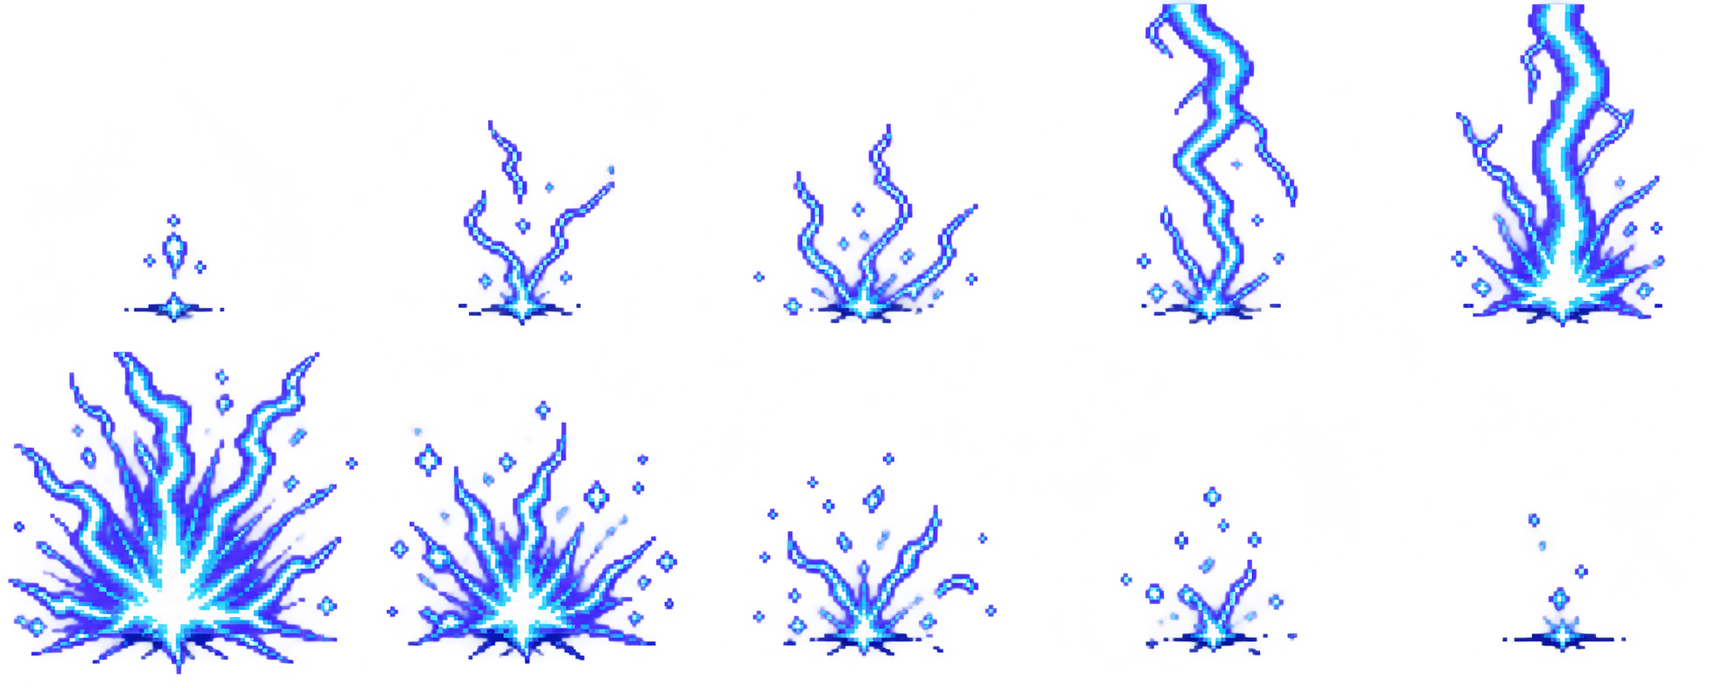
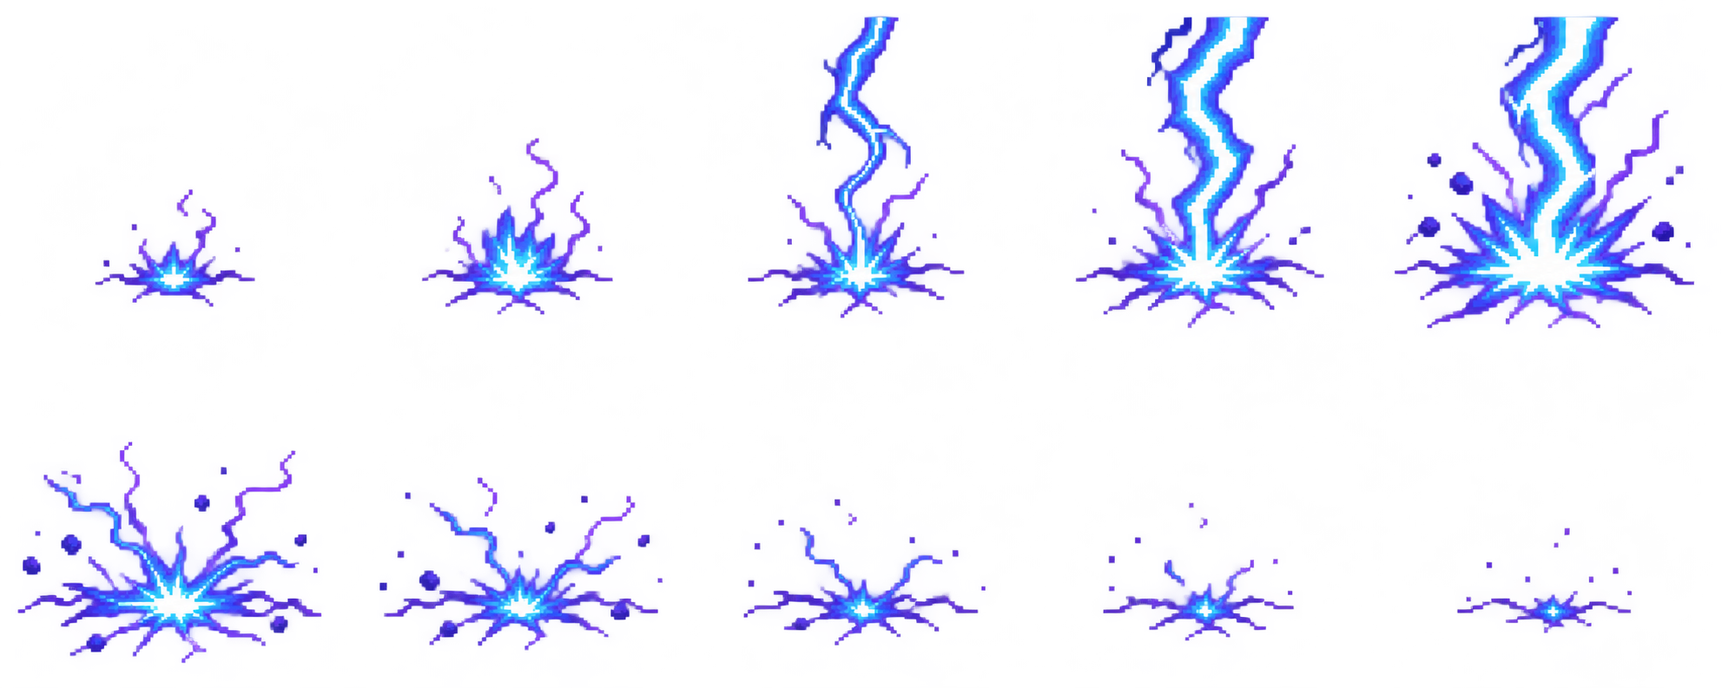
feat(asset-canvas): refine detailed effect assets

diff --git a/src/shared/canvas-pixel-style.ts b/src/shared/canvas-pixel-style.ts
@@ -4,6 +4,10 @@ Create authentic low-resolution 2D game pixel art, designed natively on the sele
 
 Use uniformly sized square pixels, deliberate pixel clusters, stepped contours, readable silhouettes, and crisp hard-edged shading. The selected density controls logical dimensions, palette, shading depth, and retained detail. Do not apply a different density's rules.
 
+**DENSITY PRIORITY**
+
+When the selected density is DETAILED PIXELS, target premium 32-bit pixel-art illustration fidelity, not coarse or classic pixel art enlarged to a larger canvas. Use dense, visibly small square-pixel clusters and retain controlled micro-structure, material transitions, secondary motion detail, directional key light, rim light, contact shadows, and compact specular highlights at the requested logical size. Build believable material volume through hard-edged pixel clusters: reflective facet highlights and occlusion seams for metal or ice, layered translucent bands and surface reflections for water, and a bright emissive core with nested stepped falloff bands for magic or fire. Add selective texture clusters only where they describe a material, light direction, or form change; do not use empty random noise. Never reuse coarse or classic block sizes for detailed output; do not reduce a detailed effect to a single broad silhouette with a few oversized particles.
+
 **REFERENCE DESIGN, NOT REFERENCE RENDERING**
 
 Use references to identify the requested subject, silhouette, proportions, major structures, primary colors, and identity-defining features. Preserve pose, camera angle, or composition only where the task explicitly requires them. With no reference, follow the user's subject description.
@@ -22,6 +26,7 @@ type PixelArtAssetType =
   | "environment"
   | "terrain"
   | "object"
+  | "effect"
   | "animation"
   | "subject";
 type PixelArtGrid = {
@@ -69,8 +74,17 @@ const SUBJECT_DETAILS: Record<PixelArtLevel, string> = {
     "Retain selected secondary structures, markings, seams, or highlights as readable clusters; omit only detail too small for this grid. For faces, if present, retain selected hair or fur locks and compact eye highlights.",
 };
 
+const EFFECT_DETAILS: Record<PixelArtLevel, string> = {
+  coarse:
+    "Keep the effect to bold, readable energy masses with only essential sparks or fragments. Prioritize the motion silhouette over interior texture.",
+  classic:
+    "Use compact clusters for the core, outer edge, and a few motion-defining particles. Keep trails, arcs, droplets, and fragments readable without adding fine texture.",
+  detailed:
+    "Use a 256×256 logical canvas for every effect frame, with premium 32-bit pixel-art illustration fidelity. Build the core, glow edge, material transitions, secondary particles, and believable three-dimensional volume from dense small square-pixel clusters. Use 6–8 discrete hard-edged tones across the effect palette, reserving the brightest one for compact specular or emissive focal highlights. Render a deliberate light hierarchy: hot or bright core, lit plane, saturated midtone body, dark occlusion rim, thin rim light, then sparse reflected fragments. Ice should show planar facets, internal refraction bands, and cold reflective glints; water should show layered translucent bands, refracted depth, and sharp surface reflections; fire and magic should show nested emissive cores with stepped radiating falloff. Retain thin but readable arcs, tendrils, droplets, sparks, shards, and smoke wisps where they clarify motion. Add selective texture clusters only where they describe material, lighting, or volume, never as random speckling.",
+};
+
 const ASSET_DETAILS: Record<
-  Exclude<PixelArtAssetType, "subject" | "animation">,
+  Exclude<PixelArtAssetType, "subject" | "effect" | "animation">,
   Record<PixelArtLevel, string>
 > = {
   character: {
@@ -126,7 +140,13 @@ export function withPixelArtLevel(
   },
 ): string {
   const settings = PIXEL_ART_LEVEL_SETTINGS[level];
-  const size = settings[kind];
+  const assetTypes =
+    typeof options?.assetType === "string"
+      ? [options.assetType]
+      : (options?.assetType ?? []);
+  const size = kind === "sprite" && level === "detailed" && assetTypes.includes("effect")
+    ? 256
+    : settings[kind];
   const grid = options?.grid;
   const dimensions = options?.referenceSheet
     ? `Design the entire 16:9 reference sheet on a ${size * 4}×${(size * 9) / 4} logical pixel canvas. Full-body views each fit within a ${size}×${size} logical sprite budget; the main portrait can occupy more logical area, using the same pixel scale and detail budget.`
@@ -137,15 +157,13 @@ export function withPixelArtLevel(
     kind === "tile"
       ? "An explicit user tile size or atlas layout overrides these defaults. Recalculate the complete logical atlas from that tile size and layout; do not enforce the default dimensions at the same time."
       : "";
-  const assetTypes =
-    typeof options?.assetType === "string"
-      ? [options.assetType]
-      : (options?.assetType ?? []);
   const assetDetail = assetTypes
     .map((type) => {
       const detail =
         type === "subject"
           ? SUBJECT_DETAILS[level]
+          : type === "effect"
+            ? EFFECT_DETAILS[level]
           : type === "animation"
             ? `${SUBJECT_DETAILS[level]} Apply the same detail choices to the supplied subject in every frame, whether it is a person, creature, or object. Spend the budget on readable motion, not changing texture or ornament.`
             : ASSET_DETAILS[type][level];
@@ -158,7 +176,10 @@ export function withPixelArtLevel(
       : level === "detailed"
         ? "DETAILED PIXELS"
         : "CLASSIC PIXELS";
-  const instruction = `**PIXEL DENSITY: ${title}**\n\n${dimensions}${sizeOverride ? ` ${sizeOverride}` : ""}\n\n${settings.style} Pixel construction takes priority over detail reduction: keep visible square-pixel clusters and stair-step contours on outer silhouettes, diagonals, curves, and internal color boundaries at this density. Simplified shapes must still be built from pixels; do not turn them into smooth flat vector shapes. Fine detail must also remain visibly pixel-built. Use no more than ${settings.colors} colors across all artwork in the full output, plus one plain background color or transparency. Reuse the palette across every view and frame.\n\nLogical dimensions are design targets, not provider output dimensions. Enlarge the complete composition using one uniform nearest-neighbor scale. Derive visible block size from the complete logical canvas and actual output size, never from a fixed output-width example. Preserve square pixels; if the output aspect ratio differs, leave plain margins rather than stretching pixels or adding detail.${assetDetail ? `\n\n${assetDetail}` : ""}`;
+  const globalStyle = prompt.includes(GLOBAL_PIXEL_ART_STYLE_REQUIREMENTS)
+    ? ""
+    : `${GLOBAL_PIXEL_ART_STYLE_REQUIREMENTS}\n\n`;
+  const instruction = `${globalStyle}**PIXEL DENSITY: ${title}**\n\n${dimensions}${sizeOverride ? ` ${sizeOverride}` : ""}\n\n${settings.style} Pixel construction takes priority over detail reduction: keep visible square-pixel clusters and stair-step contours on outer silhouettes, diagonals, curves, and internal color boundaries at this density. Simplified shapes must still be built from pixels; do not turn them into smooth flat vector shapes. Fine detail must also remain visibly pixel-built. Use no more than ${settings.colors} colors across all artwork in the full output, plus one plain background color or transparency. Reuse the palette across every view and frame.\n\nLogical dimensions are design targets, not provider output dimensions. Enlarge the complete composition using one uniform nearest-neighbor scale. Derive visible block size from the complete logical canvas and actual output size, never from a fixed output-width example. Preserve square pixels; if the output aspect ratio differs, leave plain margins rather than stretching pixels or adding detail.${assetDetail ? `\n\n${assetDetail}` : ""}`;
   const firstSection = prompt.indexOf("\n\n");
   return firstSection < 0
     ? `${instruction}\n\n${prompt}`

diff --git a/src/renderer/asset-canvas-effect-presets.ts b/src/renderer/asset-canvas-effect-presets.ts
@@ -4,15 +4,15 @@ import type { ImageAspectRatio } from "../shared/contracts.js";
 import { effectPresetExampleId } from "./asset-canvas-effect-examples.js";
 
 export const EFFECT_PRESETS = [
-  { id: "fire-hit", name: "火焰", frames: "4 × 3 · 12 帧", grid: { columns: 4, rows: 3 }, description: "火焰爆发并化为余烬的 12 帧特效图集。", prompt: "Create one complete 4-column by 3-row sprite sheet for a compact pixel-art fire impact. Read cells left to right, top to bottom: ignition, expanding flame burst, scattered sparks, fading embers. Transparent background, no labels, no borders, fixed center." },
+  { id: "fire-hit", name: "火焰", frames: "4 × 3 · 12 帧", grid: { columns: 4, rows: 3 }, description: "火焰爆发并化为余烬的 12 帧特效图集。", prompt: "Create one complete 4-column by 3-row sprite sheet for a compact pixel-art fire impact. Read cells left to right, top to bottom: ignition, expanding flame burst, scattered sparks, fading embers. Use a compact white-hot core, separately articulated narrow yellow and gold inner flame tongues, orange mid-flames, a deep crimson outer rim, small charcoal ember pockets, and tiny square cinders. Preserve dense internal flame striations and stepped pixel contours; never use a smoky, muddy, broad flat red mass. Transparent background, no labels, no borders, fixed center." },
   { id: "ice-impact", name: "冰霜", frames: "4 × 3 · 12 帧", grid: { columns: 4, rows: 3 }, description: "冰晶爆发、碎片飞散并消退的 12 帧特效图集。", prompt: "Create one complete 4-column by 3-row sprite sheet for a blue ice impact. Read cells left to right, top to bottom: cyan spark, crystal formation, ice burst, shards scatter, frost fades. Transparent background, no labels, no borders, fixed center." },
   { id: "wave-impact", name: "浪花", frames: "4 × 3 · 12 帧", grid: { columns: 4, rows: 3 }, description: "海浪卷起、拍击并回落的 12 帧特效图集。", prompt: "Create one complete 4-column by 3-row sprite sheet for a powerful pixel-art ocean wave impact. Read cells left to right, top to bottom: wave forms, crest rises, wave crashes, foam and droplets scatter, then retreat. Transparent background, no labels, no borders, fixed center." },
   { id: "water-splash", name: "水花", frames: "4 × 3 · 12 帧", grid: { columns: 4, rows: 3 }, description: "水滴落下、溅起并形成涟漪的 12 帧特效图集。", prompt: "Create one complete 4-column by 3-row sprite sheet for a pixel-art water droplet splash. Read cells left to right, top to bottom: droplet falls, impact, expanding splash arcs, droplets fall, ripples fade. Transparent background, no labels, no borders, fixed ground point." },
   { id: "electric-orb-burst", name: "雷球", frames: "3 × 4 · 12 帧", grid: { columns: 3, rows: 4 }, description: "雷球蓄能、爆发并分解为电弧的 12 帧特效图集。", prompt: "Create one complete 3-column by 4-row sprite sheet for a spinning pixel-art electric orb that bursts into lightning fragments. Read cells left to right, top to bottom: sparks gather, orb charges, electric burst, fragments scatter, sparks fade. Transparent background, no labels, no borders, fixed center." },
   { id: "lightning-strike", name: "雷点", frames: "5 × 2 · 10 帧", grid: { columns: 5, rows: 2 }, description: "雷电下落、落点爆发并消散的 10 帧特效图集。", prompt: "Create one complete 5-column by 2-row sprite sheet for a pixel-art lightning strike impact. Read cells left to right, top to bottom: charge glow, bolt descends, impact branches, residual sparks fade. Transparent background, no labels, no borders, fixed impact point." },
   { id: "ice-claw-slash", name: "寒冰爪痕", frames: "4 × 3 · 12 帧", grid: { columns: 4, rows: 3 }, description: "三道寒冰爪痕斩击并碎裂的 12 帧特效图集。", prompt: "Create one complete 4-column by 3-row sprite sheet for a three-claw pixel-art ice slash. Read cells left to right, top to bottom: frost glint, parallel diagonal claw marks form, sharp slash peaks, shards scatter, frost fades. Transparent background, no labels, no borders, fixed center." },
-  { id: "electric-trail", name: "电光拖尾", frames: "4 × 3 · 12 帧", grid: { columns: 4, rows: 3 }, description: "电能冲刺形成拖尾并分解的 12 帧特效图集。", prompt: "Create one complete 4-column by 3-row sprite sheet for an electric dash with a glowing lightning trail. Read cells left to right, top to bottom: spark, charge core, bright horizontal dash trail, branching fragments, sparks fade. Transparent background, no labels, no borders, fixed center." },
-  { id: "blue-white-crescent-slash", name: "蓝白弧斩", frames: "4 × 3 · 12 帧", grid: { columns: 4, rows: 3 }, description: "蓝白能量弧沿曲线挥斩的 12 帧特效图集。", prompt: "Create one complete 4-column by 3-row sprite sheet for a blue-white crescent energy slash. Read cells left to right, top to bottom: small crescent forms, sweeps in a curved arc, reaches a bright peak, then breaks into particles. Transparent background, no labels, no borders, fixed center." },
+  { id: "electric-trail", name: "电光拖尾", frames: "4 × 3 · 12 帧", grid: { columns: 4, rows: 3 }, description: "电能冲刺形成拖尾并分解的 12 帧特效图集。", prompt: "Create one complete 4-column by 3-row sprite sheet for an electric dash with a glowing lightning trail. Read cells left to right, top to bottom: spark, charge core, bright horizontal dash trail, branching fragments, sparks fade. Use a hairline white-cyan lightning core, independently articulated thin blue-violet branches, dark navy gaps, stepped micro-pixel bends, cyan rim highlights, segmented afterimage trails, and tiny square charged dust. Keep the energy as precise filaments, never a chunky blob or a broad flat blue slab. Transparent background, no labels, no borders, fixed center." },
+  { id: "blue-white-crescent-slash", name: "蓝白弧斩", frames: "4 × 3 · 12 帧", grid: { columns: 4, rows: 3 }, description: "蓝白能量弧沿曲线挥斩的 12 帧特效图集。", prompt: "Create one complete 4-column by 3-row sprite sheet for a blue-white crescent energy slash. Read cells left to right, top to bottom: small crescent forms, sweeps in a curved arc, reaches a bright peak, then breaks into particles. Build one elegant thin crescent with a razor-sharp white-blue core line, separately articulated cyan and royal-blue energy ribbons, dark navy occlusion gaps, segmented edge highlights, tapered fragments, and tiny square sparks. Keep dense internal striations and finely stepped pixel contours; never use a chunky broad blue swoosh or a flat slab. Transparent background, no labels, no borders, fixed center." },
   { id: "smoke-dispersal", name: "烟团", frames: "4 × 3 · 12 帧", grid: { columns: 4, rows: 3 }, description: "烟团聚集、膨胀并消散的 12 帧特效图集。", prompt: "Create one complete 4-column by 3-row sprite sheet for a gray pixel-art smoke puff dispersal. Read cells left to right, top to bottom: smoke appears, expands into rounded puffs, separates into wisps, then fades. Transparent background, no labels, no borders, fixed center." },
   { id: "green-energy-wave", name: "绿色聚能波", frames: "4 × 3 · 12 帧", grid: { columns: 4, rows: 3 }, description: "绿色能量汇聚成波并扩散的 12 帧特效图集。", prompt: "Create one complete 4-column by 3-row sprite sheet for a green energy wave. Read cells left to right, top to bottom: fragments gather, vortex forms, orb compresses, energy ring expands, particles fade. Transparent background, no labels, no borders, fixed center." },
   { id: "water-orb-magic", name: "水球魔法", frames: "4 × 3 · 12 帧", grid: { columns: 4, rows: 3 }, description: "水球凝聚、发射并散开的 12 帧特效图集。", prompt: "Create one complete 4-column by 3-row sprite sheet for a blue water orb magic launch. Read cells left to right, top to bottom: droplets gather, orb forms and charges, launches leftward, splits into droplets, then disperses. Transparent background, no labels, no borders, fixed center." },

diff --git a/src/renderer/asset-canvas-templates.ts b/src/renderer/asset-canvas-templates.ts
@@ -184,6 +184,8 @@ Main color: original orange, yellow, red, and dark-brown fire palette
 
 Motion rhythm: balanced buildup, brightest peak, then a clean fade-out
 
+Fine-detail direction: use a compact white-hot core, separately articulated narrow yellow and gold inner flame tongues, orange mid-flames, a deep crimson outer rim, small charcoal ember pockets, and tiny square cinders. Preserve dense internal flame striations and stepped pixel contours; never use a smoky, muddy, broad flat red mass.
+
 Additional direction:
 Create exactly one square sheet with exactly 12 equal-sized cells, read left to right and top to bottom. Every cell must have the same transparent background, identical camera framing, identical scale, and one fixed ground-impact point at the bottom center. Do not add borders, grid lines, labels, text, UI, characters, weapons, scenery, or extra effects. Do not leave any cell empty.
 
@@ -340,6 +342,8 @@ Main color: electric blue, cyan, violet, and white-hot highlights
 
 Motion rhythm: extremely fast acceleration, sharp forward dash, stretched trail, then rapid dissipation
 
+Fine-detail direction: use a hairline white-cyan lightning core, independently articulated thin blue-violet branches, dark navy gaps, stepped micro-pixel bends, cyan rim highlights, segmented afterimage trails, and tiny square charged dust. Keep the energy as precise filaments, never a chunky blob or a broad flat blue slab.
+
 Important composition rule: the left-to-right direction describes the orientation of the dash and its trail, not movement across the entire cell. The complete effect must remain centered inside every individual cell. Do not move the effect from the left edge to the right edge of a cell. Do not let the bolt or trail cross any cell boundary.
 
 Additional direction:
@@ -363,6 +367,8 @@ const EFFECT_LIBRARY_BLUE_WHITE_CRESCENT_EXAMPLE_PROMPT = `Requested action: a b
 Main color: bright cyan, electric blue, deep navy, and white-hot highlights
 
 Motion rhythm: fast initiation, smooth curved downward sweep, strong mid-swing peak, then rapid dissipation
+
+Fine-detail direction: build one elegant thin crescent with a razor-sharp white-blue core line, separately articulated cyan and royal-blue energy ribbons, dark navy occlusion gaps, segmented edge highlights, tapered fragments, and tiny square sparks. Keep dense internal striations and finely stepped pixel contours; never use a chunky broad blue swoosh or a flat slab.
 
 Important motion rule: this is one single crescent-shaped slash, not a straight projectile and not a stationary effect. The crescent starts near the upper-right area, travels downward along the right side in a curved arc, and ends near the lower-right area. The motion path must stay inside the same cell and must never cross a cell boundary.
 
@@ -853,7 +859,7 @@ export async function createEffectLibraryProject(level: PixelArtLevel = "classic
       const gridMatch = prompt.match(/(\d+)-column by (\d+)-row Sprite Sheet/i);
       const columns = Number(gridMatch?.[1] ?? 4);
       const rows = Number(gridMatch?.[2] ?? 3);
-      return withPixelArtLevel(prompt, level, "sprite", { assetType: "animation", grid: { columns, rows, unit: "frame" } });
+      return withPixelArtLevel(prompt, level, "sprite", { assetType: "effect", grid: { columns, rows, unit: "frame" } });
     };
     const exampleImageNode = (node: AssetCanvasNode, prompt: string): AssetCanvasNode => {
       const assetId = "assetId" in node.data ? node.data.assetId : undefined;

diff --git a/src/shared/asset-canvas.ts b/src/shared/asset-canvas.ts
@@ -214,7 +214,7 @@ export const EFFECT_SPRITE_SHEET_SAFE_MARGIN_PROMPT = "The final output must be 
 /** Default editor template for image nodes created inside the Effect Library. */
 export const EFFECT_LIBRARY_DEFAULT_PROMPT_TEMPLATE = "Requested action: {USER_ACTION}\n\nMain color: {EFFECT_COLOR}\n\nMotion rhythm: {MOTION_RHYTHM}\n\nAdditional direction:\n{ADDITIONAL_PROMPT}";
 
-const EFFECT_DETAILED_PIXEL_RULES = "DETAILED EFFECT PIXEL RULES: Preserve more of the effect's secondary contour breaks, layered highlights, small particles, and material transitions than classic pixels. Use 4–6 hard-edged tones per material, but keep every highlight and particle as an intentional square-pixel cluster on the same logical grid. Retain thin readable arcs, tendrils, droplets, sparks, and smoke fragments where they clarify motion; do not replace them with smooth glows, anti-aliased edges, noise, or random speckles. Keep the silhouette and frame-to-frame motion coherent while using the full detailed pixel budget.";
+const EFFECT_DETAILED_PIXEL_RULES = "DETAILED EFFECT PIXEL RULES: Render at premium 32-bit pixel-art illustration fidelity using the full 256×256 per-frame budget, never enlarged classic-pixel shapes. Preserve secondary contour breaks, layered highlights, compact particle clusters, internal material structure, and controlled texture in every phase. Make the bright core, lit plane, saturated midtone body, dark occlusion rim, thin rim light, and transient fragments visibly distinct with 6–8 hard-edged palette steps. Build believable material volume with directional lighting and compact specular highlights: faceted internal refraction and cold glints for ice, layered translucent depth and sharp reflections for water, and nested hot emissive cores with stepped radiating falloff for fire or magic. Retain thin readable arcs, tendrils, droplets, sparks, shards, and smoke fragments where they clarify motion; do not replace them with smooth glows, anti-aliased edges, noise, or random speckles. Keep the silhouette, palette, scale, light direction, and frame-to-frame motion coherent.";
 
 /** Builds the complete, portable prompt behind an Effect Library image node. */
 export function effectLibraryPrompt(
@@ -241,7 +241,7 @@ export function effectLibraryPrompt(
   const columns = Number(gridMatch?.[1] ?? 4);
   const rows = Number(gridMatch?.[2] ?? 3);
   const densityPrompt = withPixelArtLevel("EFFECT PIXEL DENSITY RULES:", pixelStyle, "sprite", {
-    assetType: "animation",
+    assetType: "effect",
     grid: { columns, rows, unit: "frame" },
   });
   return [colorDirection, rhythmDirection, densityPrompt, pixelStyle === "detailed" ? EFFECT_DETAILED_PIXEL_RULES : "", EFFECT_SPRITE_SHEET_SAFE_MARGIN_PROMPT, basePrompt, additionalPrompt]

diff --git a/src/renderer/asset-canvas-workspace.tsx b/src/renderer/asset-canvas-workspace.tsx
@@ -90,7 +90,7 @@ import {
   type VideoModel,
   type VideoGenerationReference,
 } from "../shared/contracts.js";
-import { combineAssetCanvasPrompt, createAssetGenerationNode, EFFECT_LIBRARY_DEFAULT_PROMPT_TEMPLATE, isTextGenerationReferenceNode, preferredImageOption, validateAssetCanvasDocument } from "../shared/asset-canvas.js";
+import { combineAssetCanvasPrompt, createAssetGenerationNode, EFFECT_LIBRARY_DEFAULT_PROMPT_TEMPLATE, effectLibraryPrompt, isTextGenerationReferenceNode, preferredImageOption, validateAssetCanvasDocument } from "../shared/asset-canvas.js";
 import { allActionsPrompt, continuousActionsPrompt, resolveContinuousActionPrompt, preferredCharacterSheetOption } from "../shared/canvas-character-tools.js";
 import { canvasImagePresetPrompt, canvasMaterialStyle, type CanvasImagePreset, type CanvasMaterialStyle } from "../shared/canvas-image-presets.js";
 import { VOLCENGINE_TTS_VOICES, audioCanvasSettings, audioNodeHasSettings, audioSettings, isAudioNodeType, type AudioCanvasSettings, type AudioModel, type AudioOperation, type AudioProviderCatalogStatus } from "../shared/audio.js";
@@ -107,7 +107,7 @@ import type { CanvasAssetCatalogEntry } from "../shared/canvas-assets.js";
 import { prepareVideoReferenceFile, readMediaFileDuration } from "./video-reference-files.js";
 import { findAssetCanvasCoverSource, type AssetCanvasCoverSource } from "../shared/asset-canvas-cover.js";
 import { ModelPreview } from "./model-preview.js";
-import { withPixelArtLevel, type PixelArtLevel } from "../shared/canvas-pixel-style.js";
+import type { PixelArtLevel } from "../shared/canvas-pixel-style.js";
 import { PIXEL_ASSET_TEMPLATE_NOTE, createPixelAssetPresetContents, pixelArtLevelLabel, pixelAssetTemplateGuideCategory, placePixelPresetOutsideDensityGroups, type PixelAssetPresetId } from "./asset-canvas-pixel-workflows.js";
 import { AssetCanvasPixelPresetDialog } from "./asset-canvas-pixel-preset-dialog.js";
 import { effectPresetAspectRatio, effectPresetById, effectPresetLabel, effectPresetStaticExampleId, type EffectPresetId } from "./asset-canvas-effect-presets.js";
@@ -1052,7 +1052,7 @@ export function CanvasBoardEditor({ project, initialNodeId, onInitialNodeHandled
         ...configured.data,
         ...(model ? { model: { provider: model.provider, id: model.id } } : {}),
         ...(option ? { resolution: option.resolution, aspectRatio: option.aspectRatio } : {}),
-        prompt: withPixelArtLevel(preset.prompt, pixelStyle, "sprite", { assetType: "animation", grid: { ...preset.grid, unit: "frame" } }),
+        prompt: effectLibraryPrompt(preset.prompt, "original", "sample", "", pixelStyle),
         promptExpanded: true,
         pixelStyle,
         exampleImage: effectPresetStaticExampleId(preset.id, pixelStyle),

diff --git a/test/asset-canvas-templates.test.ts b/test/asset-canvas-templates.test.ts
@@ -59,9 +59,26 @@ describe("pixel asset workflows", () => {
     expect(classic).toContain("64×64 pixels");
     expect(classic).not.toContain("Use no more than 8 colors");
     expect(detailed).toContain("PIXEL DENSITY: DETAILED PIXELS");
-    expect(detailed).toContain("192×192 pixels");
+    expect(detailed).toContain("256×256 pixels");
     expect(detailed).toContain("Use no more than 48 colors");
+    expect(detailed).toContain("Never reuse coarse or classic block sizes for detailed output");
     expect(detailed).toContain("DETAILED EFFECT PIXEL RULES");
+    expect(detailed).toContain("6–8 discrete hard-edged tones");
+    expect(detailed).toContain("believable material volume");
+    expect(detailed).toContain("premium 32-bit pixel-art illustration fidelity");
+  });
+
+  it("uses the same detailed visual direction for the effect cards and generated nodes", () => {
+    const fire = effectLibraryPrompt(effectPresetById("fire-hit").prompt, "original", "sample", "", "detailed");
+    const trail = effectLibraryPrompt(effectPresetById("electric-trail").prompt, "original", "sample", "", "detailed");
+    const crescent = effectLibraryPrompt(effectPresetById("blue-white-crescent-slash").prompt, "original", "sample", "", "detailed");
+    for (const prompt of [fire, trail, crescent]) {
+      expect(prompt).toContain("DETAILED EFFECT PIXEL RULES");
+      expect(prompt).toContain("full 15% transparent margin");
+    }
+    expect(fire).toContain("separately articulated narrow yellow and gold inner flame tongues");
+    expect(trail).toContain("hairline white-cyan lightning core");
+    expect(crescent).toContain("razor-sharp white-blue core line");
   });
 
   it("keeps legacy guide markers readable without creating new template boards", () => {
